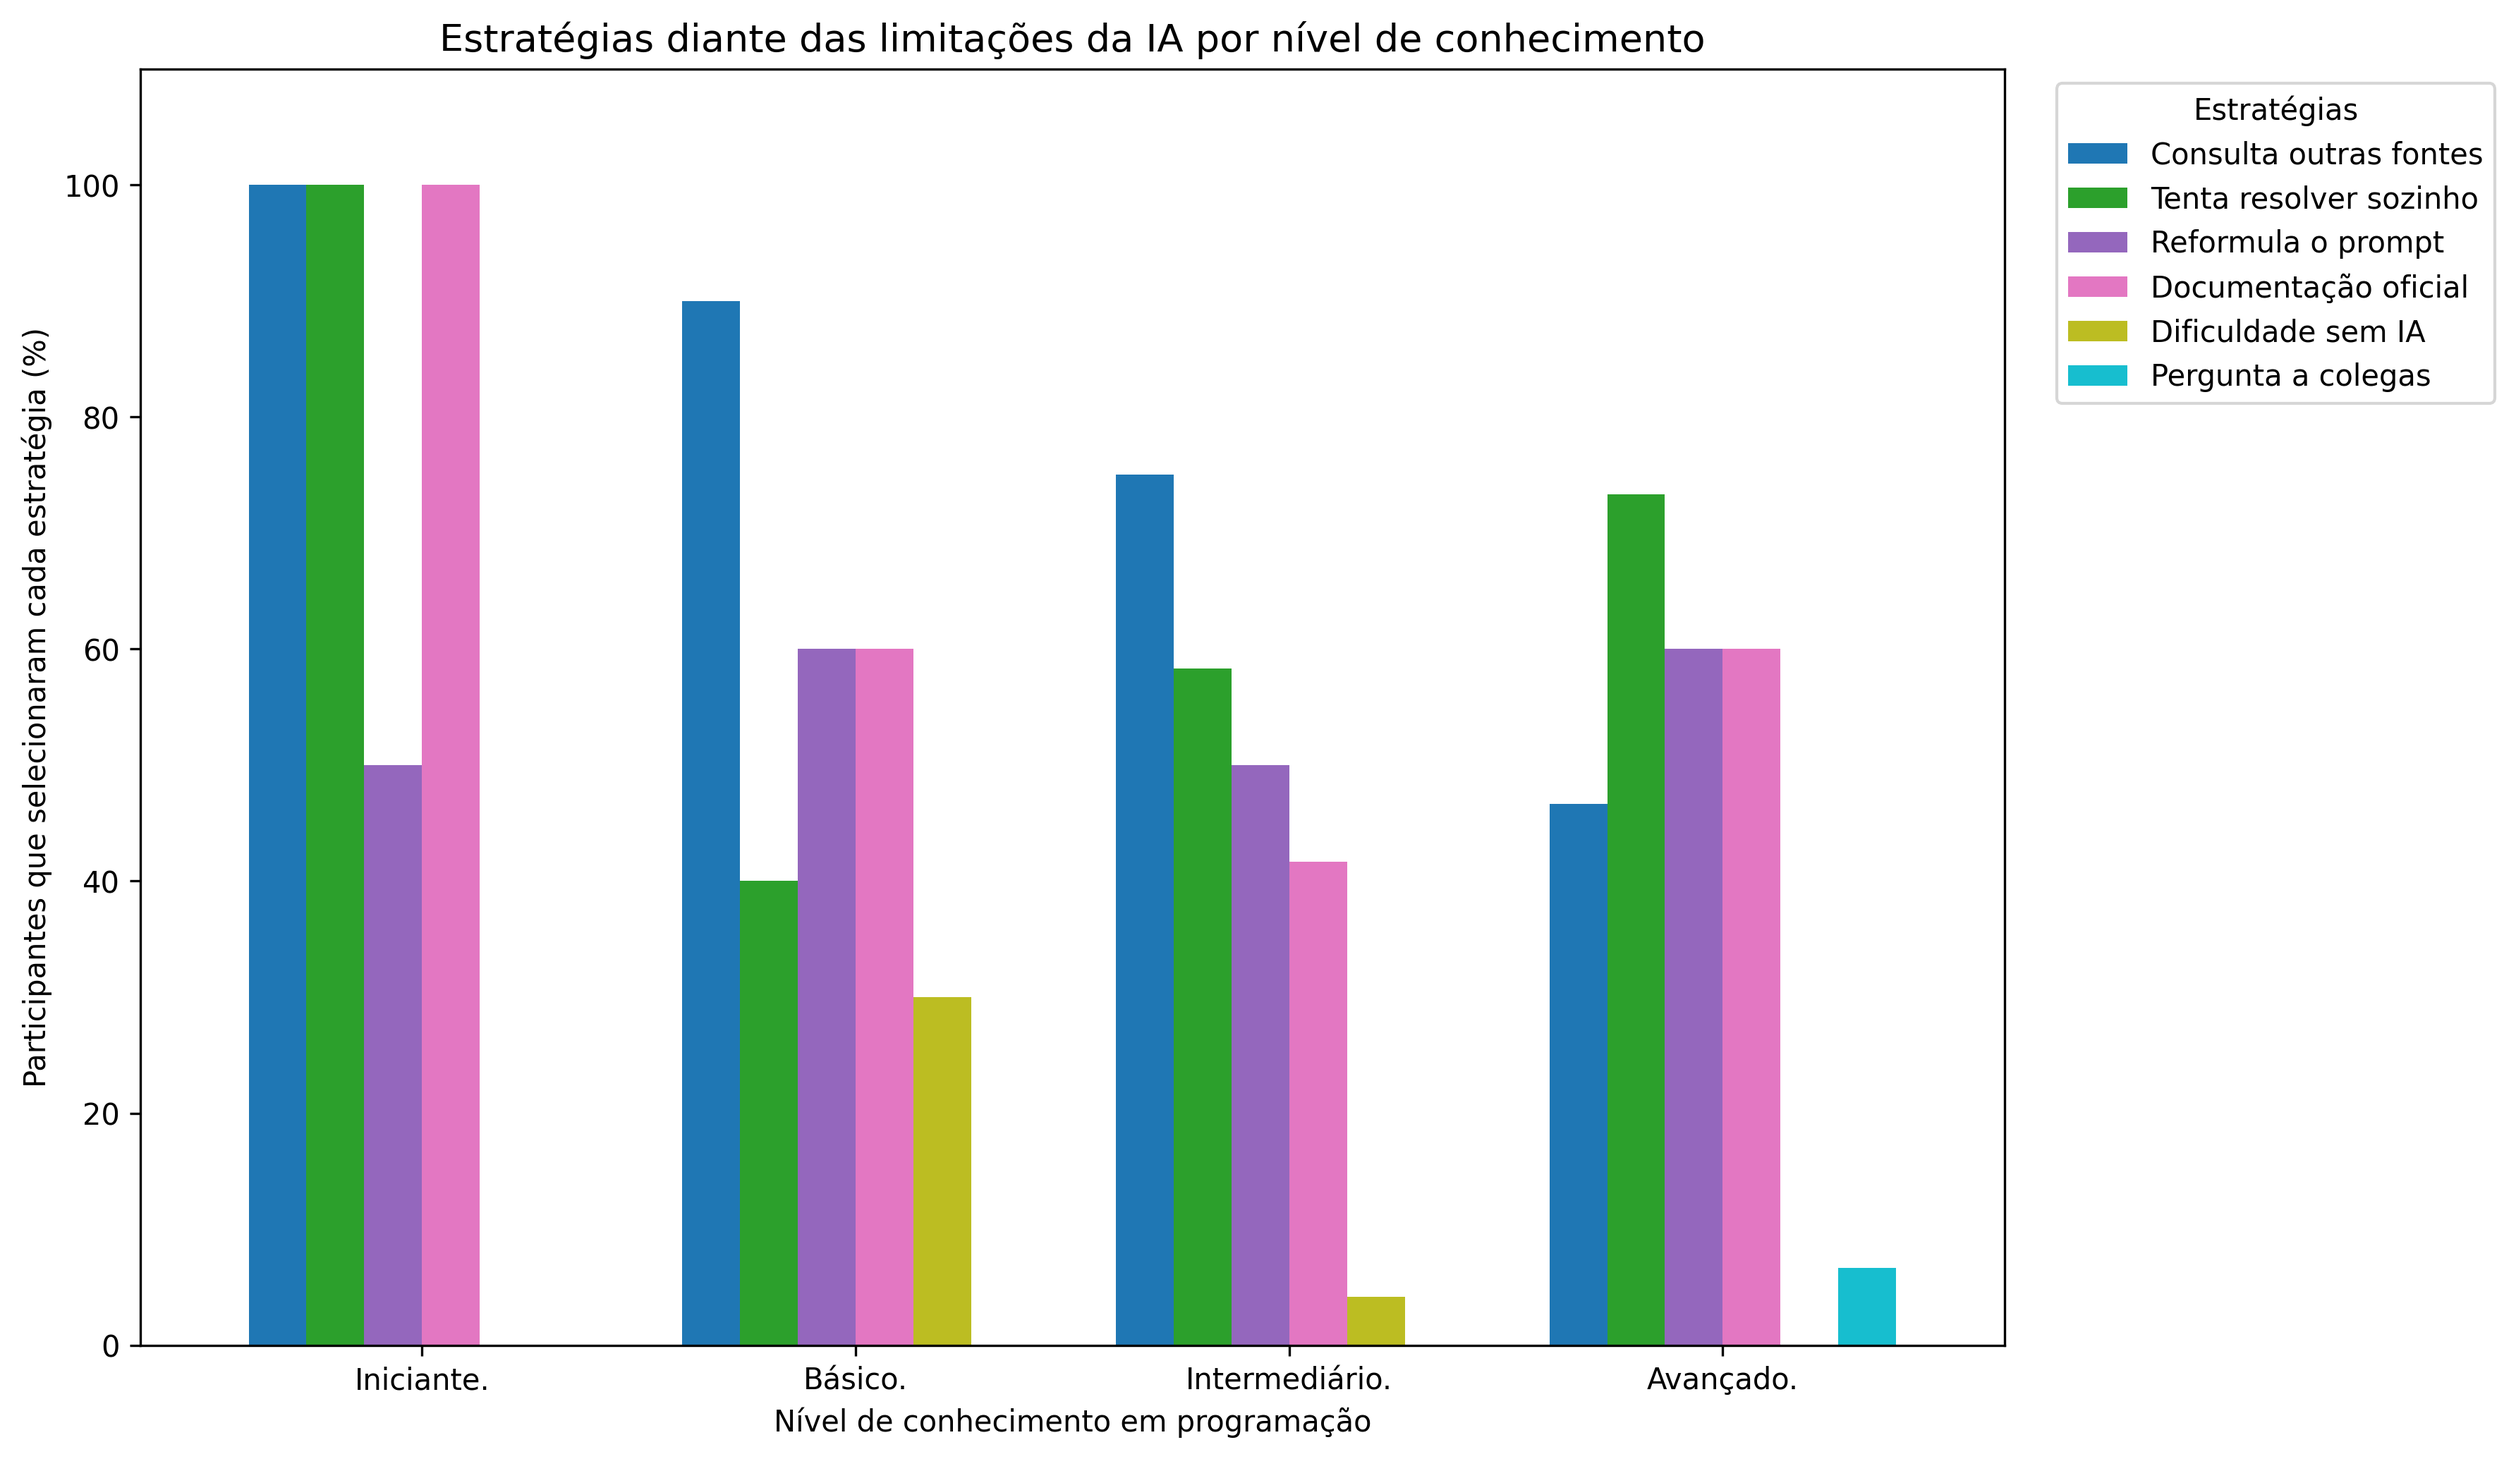
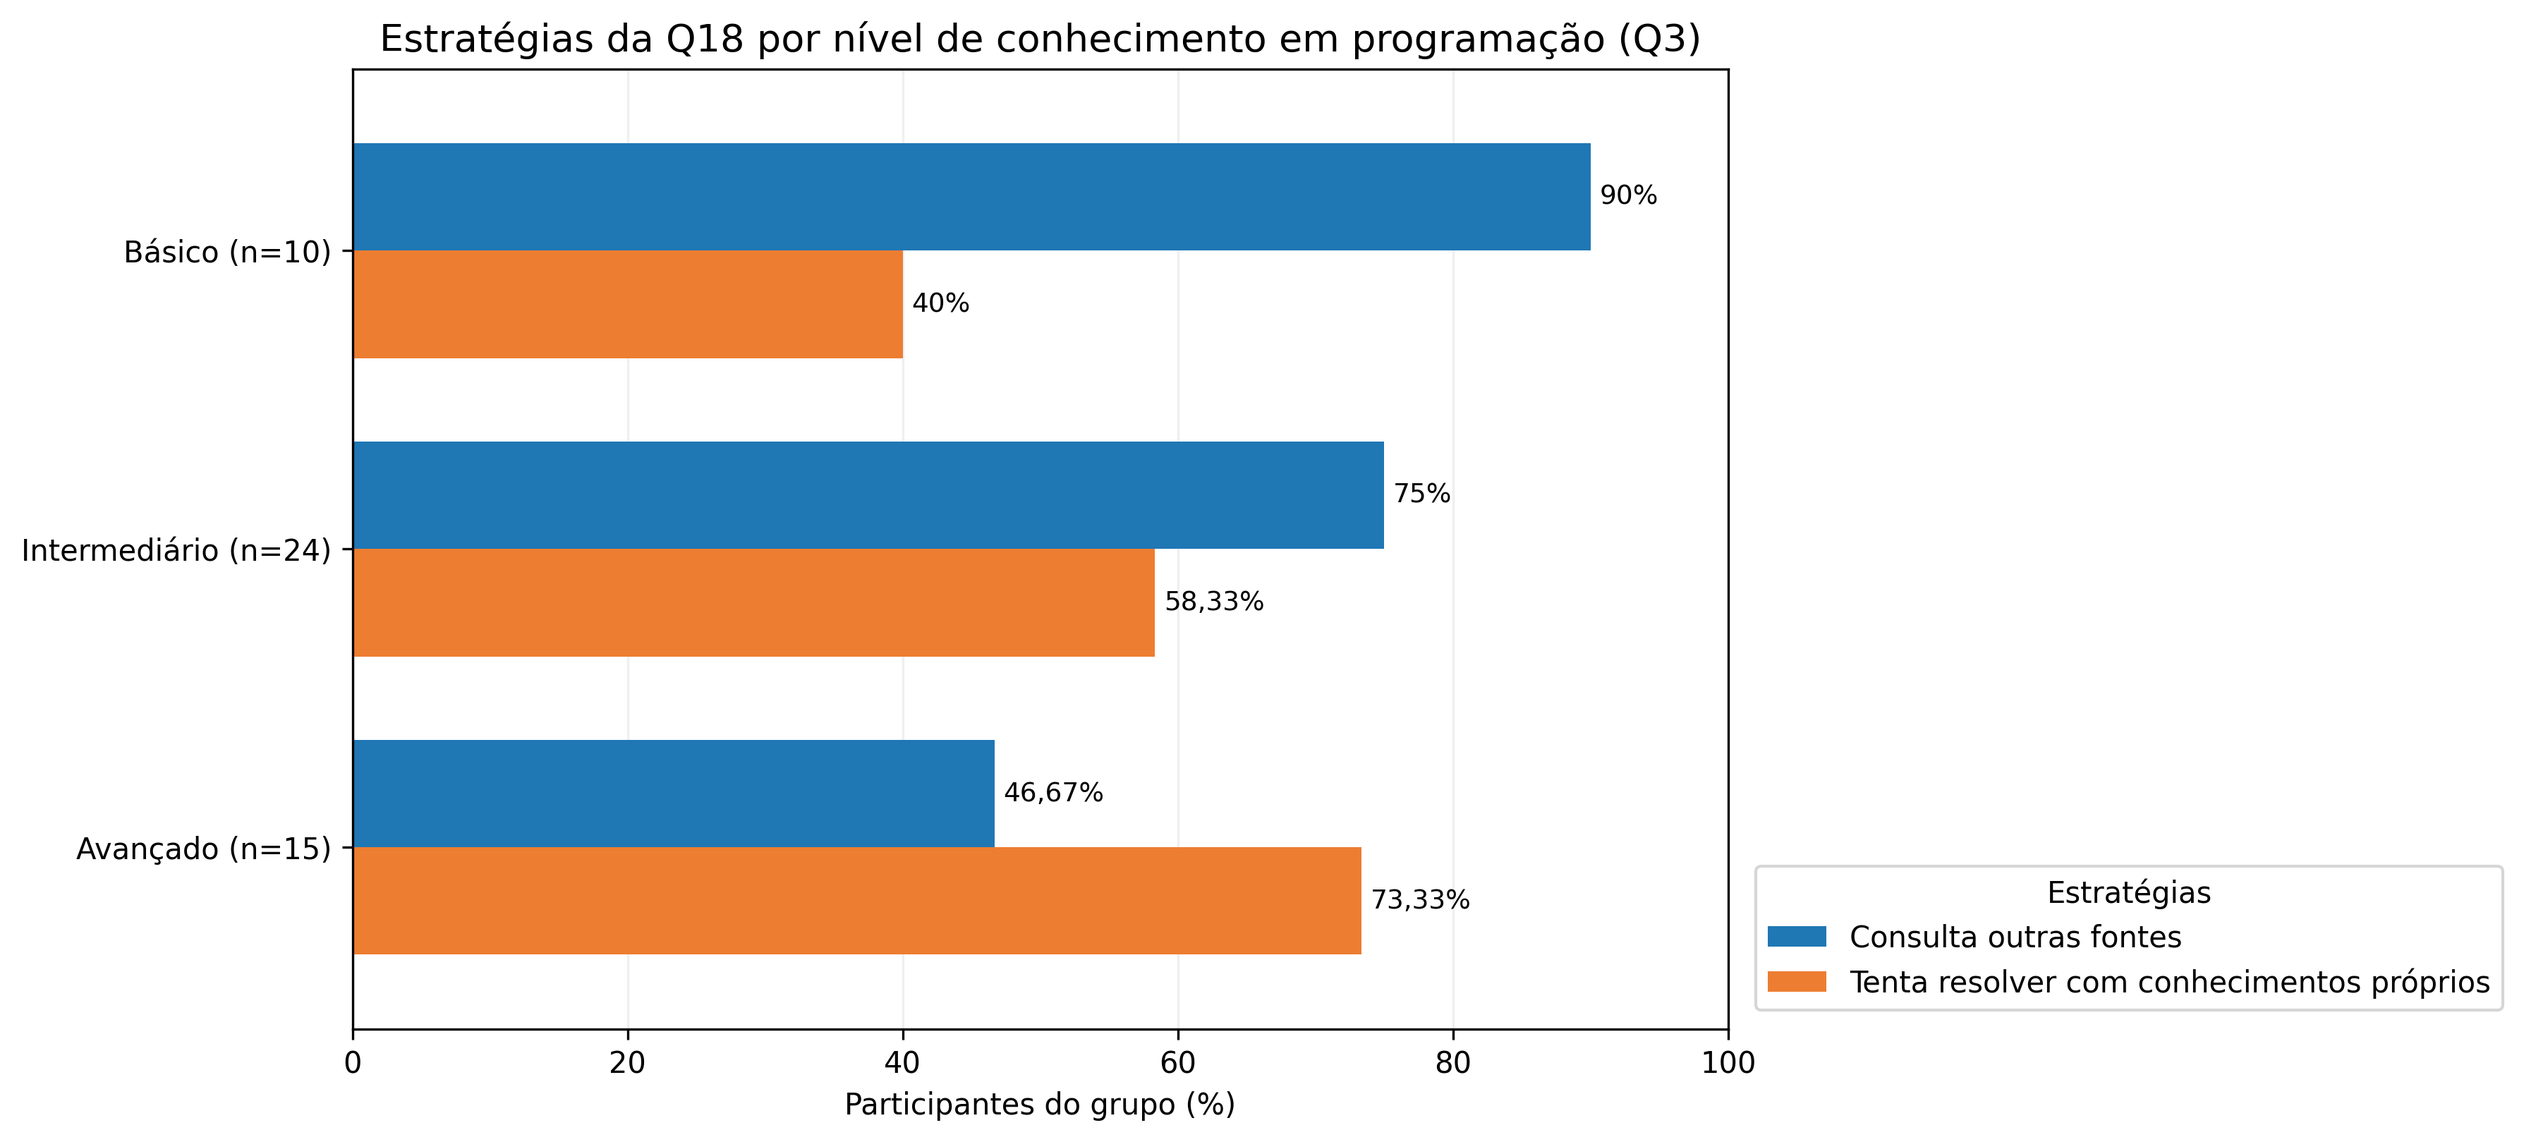
adiciona lógica para filtrar grupos com mínimo de participantes e atualiza gráficos correspondentes; ajusta arquivos de saída para refletir novas condições de privacidade

diff --git a/analise_graficos_5_3.py b/analise_graficos_5_3.py
@@ -15,6 +15,8 @@ CAMINHO_CSV = BASE_DIR / "dados" / "data.csv"
 PASTA_SAIDA = BASE_DIR / "resultados" / "analise_5_3"
 PASTA_SAIDA.mkdir(parents=True, exist_ok=True)
 
+MIN_GRUPO_PRIVACIDADE = 5
+
 plt.rcParams["figure.figsize"] = (11, 6)
 plt.rcParams["font.size"] = 10
 plt.rcParams["axes.titlesize"] = 13
@@ -295,10 +297,12 @@ opcoes_q18 = {
     ),
 }
 
-q18_normalizada = dados[col_q18].fillna("").apply(normalizar)
+dados_q18 = df[[col_q3, col_q18]].copy()
+dados_q18[col_q3] = dados_q18[col_q3].astype("string").str.strip()
+q18_normalizada = dados_q18[col_q18].fillna("").apply(normalizar)
 
 # Matriz binária: 1 = participante selecionou a alternativa.
-matriz_q18 = pd.DataFrame(index=dados.index)
+matriz_q18 = pd.DataFrame(index=dados_q18.index)
 
 for nome, alternativa in opcoes_q18.items():
     alternativa_norm = normalizar(alternativa)
@@ -313,7 +317,7 @@ for nome, alternativa in opcoes_q18.items():
 print("\n[3/4] Gerando distribuição geral da Q18...")
 
 frequencias_q18 = matriz_q18.sum().sort_values(ascending=True)
-percentuais_q18 = (frequencias_q18 / len(dados)) * 100
+percentuais_q18 = (frequencias_q18 / len(dados_q18)) * 100
 
 tabela_geral_q18 = pd.DataFrame({
     "Frequência": frequencias_q18,
@@ -366,41 +370,79 @@ print("\n[4/4] Gerando Q18 × Q3...")
 # cada estratégia. Como é múltipla seleção, a soma pode passar
 # de 100% dentro de um mesmo grupo.
 
-dados_q18_q3 = matriz_q18.join(dados[col_q3])
+dados_q18_q3 = matriz_q18.join(dados_q18[col_q3])
+dados_q18_q3 = dados_q18_q3.dropna(subset=[col_q3])
 
 tamanhos_grupos = dados_q18_q3.groupby(col_q3).size()
+grupos_publicaveis = tamanhos_grupos[
+    tamanhos_grupos >= MIN_GRUPO_PRIVACIDADE
+].index
 
 tabela_q18_q3 = (
     dados_q18_q3.groupby(col_q3)[list(opcoes_q18.keys())].mean()
     * 100
 )
 
-tabela_q18_q3 = tabela_q18_q3.reindex(ordem_q3)
+tabela_q18_q3 = tabela_q18_q3.reindex(
+    [grupo for grupo in ordem_q3 if grupo in grupos_publicaveis]
+)
 
 tabela_q18_q3.to_csv(
     PASTA_SAIDA / "q18_por_conhecimento_q3_percentuais.csv",
     encoding="utf-8-sig"
 )
 
-ax = tabela_q18_q3.plot(
-    kind="bar",
-    figsize=(12, 7),
-    colormap="tab10",
-    width=0.8
+if tabela_q18_q3.empty:
+    raise ValueError(
+        "Não há grupos com pelo menos "
+        f"{MIN_GRUPO_PRIVACIDADE} participantes para gerar o gráfico Q18 × Q3."
+    )
+
+estrategias_grafico_q18 = {
+    "Consulta outras fontes": "Consulta outras fontes",
+    "Tenta resolver sozinho": "Tenta resolver com conhecimentos próprios",
+}
+tabela_grafico_q18_q3 = tabela_q18_q3[
+    list(estrategias_grafico_q18)
+].copy()
+tabela_grafico_q18_q3.index = [
+    f"{grupo.removesuffix('.')} (n={int(tamanhos_grupos.loc[grupo])})"
+    for grupo in tabela_grafico_q18_q3.index
+]
+tabela_grafico_q18_q3 = tabela_grafico_q18_q3.rename(
+    columns=estrategias_grafico_q18
 )
 
-ax.set_title(
-    "Estratégias diante das limitações da IA por nível de conhecimento"
+fig, ax = plt.subplots(figsize=(12, 5.5))
+tabela_grafico_q18_q3.plot(
+    kind="barh",
+    ax=ax,
+    width=0.72,
+    color=["#1f77b4", "#ed7d31"]
 )
-ax.set_xlabel("Nível de conhecimento em programação")
-ax.set_ylabel("Participantes que selecionaram cada estratégia (%)")
-ax.set_ylim(0, 110)
+ax.invert_yaxis()
+ax.set_title(
+    "Estratégias da Q18 por nível de conhecimento em programação (Q3)"
+)
+ax.set_xlabel("Participantes do grupo (%)")
+ax.set_ylabel("")
+ax.set_xlim(0, 100)
+ax.set_xticks(range(0, 101, 20))
+ax.set_axisbelow(True)
+ax.xaxis.grid(alpha=0.2)
 ax.legend(
     title="Estratégias",
-    bbox_to_anchor=(1.02, 1),
-    loc="upper left"
+    loc="lower left",
+    bbox_to_anchor=(1.02, 0.02),
+    borderaxespad=0
 )
-ax.tick_params(axis="x", rotation=0)
+for barras in ax.containers:
+    rotulos = [
+        f"{valor:.2f}".rstrip("0").rstrip(".").replace(".", ",") + "%"
+        for valor in barras.datavalues
+    ]
+    ax.bar_label(barras, labels=rotulos, padding=3, fontsize=9)
+fig.subplots_adjust(left=0.24, right=0.66, top=0.84, bottom=0.15)
 
 salvar_grafico("q18_por_conhecimento_q3.png")
 
@@ -426,3 +468,7 @@ print(tabela_q18_q3.round(2).to_string())
 print("\nObservação: Q18 é de múltipla seleção.")
 print("Os percentuais são calculados sobre participantes de cada grupo.")
 print("Por isso, a soma das categorias pode ultrapassar 100%.")
+print(
+    "Grupos com menos de "
+    f"{MIN_GRUPO_PRIVACIDADE} foram omitidos por privacidade."
+)

diff --git a/analise_cruzamento_5_3.py b/analise_cruzamento_5_3.py
@@ -11,6 +11,7 @@ import unicodedata
 
 ARQUIVO = "dados/data.csv"
 PASTA_SAIDA = "resultados/analise_5_3"
+MIN_GRUPO_PRIVACIDADE = 5
 
 os.makedirs(PASTA_SAIDA, exist_ok=True)
 
@@ -172,6 +173,17 @@ def analisar_cruzamento(coluna_perfil, nome_perfil, arquivo_prefixo):
     print("=" * 70)
 
     base = df.dropna(subset=[coluna_perfil]).copy()
+    tamanhos_grupos = base[coluna_perfil].value_counts()
+    grupos_publicaveis = tamanhos_grupos[
+        tamanhos_grupos >= MIN_GRUPO_PRIVACIDADE
+    ].index
+    base = base[base[coluna_perfil].isin(grupos_publicaveis)]
+
+    if base.empty:
+        raise ValueError(
+            f"Não há grupos com pelo menos {MIN_GRUPO_PRIVACIDADE} "
+            f"participantes para analisar {nome_perfil}."
+        )
 
     resultados = []
 
@@ -227,32 +239,82 @@ def analisar_cruzamento(coluna_perfil, nome_perfil, arquivo_prefixo):
         values="Percentual"
     )
 
-    ax = tabela.plot(
-        kind="bar",
-        figsize=(13, 7),
-        width=0.8
-    )
+    if coluna_perfil == col_q3:
+        estrategias_grafico = [
+            "Consulta outras fontes de estudo",
+            "Tenta resolver sozinho utilizando conhecimentos",
+        ]
+        tabela_grafico = tabela[estrategias_grafico].copy()
+        grupos_ordem = [
+            grupo for grupo in [
+                "Básico.",
+                "Intermediário.",
+                "Avançado.",
+            ]
+            if grupo in tabela_grafico.index
+        ]
+        tabela_grafico = tabela_grafico.reindex(grupos_ordem)
+        tabela_grafico.index = [
+            f"{grupo.removesuffix('.')} "
+            f"(n={int(tamanhos_grupos.loc[grupo])})"
+            for grupo in tabela_grafico.index
+        ]
+        tabela_grafico = tabela_grafico.rename(columns={
+            estrategias_grafico[0]: "Consulta outras fontes",
+            estrategias_grafico[1]: "Tenta resolver com conhecimentos próprios",
+        })
 
-    ax.set_title(
-        f"Estratégias quando a IA não resolve — {nome_perfil}"
-    )
-
-    ax.set_xlabel(nome_perfil)
-
-    ax.set_ylabel(
-        "Participantes que selecionaram a estratégia (%)"
-    )
-
-    ax.set_ylim(0, 100)
-
-    ax.legend(
-        title="Estratégias",
-        bbox_to_anchor=(1.02, 1),
-        loc="upper left"
-    )
-
-    plt.xticks(rotation=25, ha="right")
-    plt.tight_layout()
+        fig, ax = plt.subplots(figsize=(12, 5.5))
+        tabela_grafico.plot(
+            kind="barh",
+            ax=ax,
+            width=0.72,
+            color=["#1f77b4", "#ed7d31"]
+        )
+        ax.invert_yaxis()
+        ax.set_title(
+            "Estratégias da Q18 por nível de conhecimento em programação (Q3)"
+        )
+        ax.set_xlabel("Participantes do grupo (%)")
+        ax.set_ylabel("")
+        ax.set_xlim(0, 100)
+        ax.set_xticks(range(0, 101, 20))
+        ax.set_axisbelow(True)
+        ax.xaxis.grid(alpha=0.2)
+        ax.legend(
+            title="Estratégias",
+            loc="lower left",
+            bbox_to_anchor=(1.02, 0.02),
+            borderaxespad=0
+        )
+        for barras in ax.containers:
+            rotulos = [
+                f"{valor:.2f}".rstrip("0").rstrip(".").replace(".", ",") + "%"
+                for valor in barras.datavalues
+            ]
+            ax.bar_label(barras, labels=rotulos, padding=3, fontsize=9)
+        fig.subplots_adjust(left=0.24, right=0.66, top=0.84, bottom=0.15)
+    else:
+        ax = tabela.plot(
+            kind="bar",
+            figsize=(13, 7),
+            width=0.8
+        )
+        ax.set_title(
+            f"Estratégias quando a IA não resolve — {nome_perfil}"
+        )
+        ax.set_xlabel(nome_perfil)
+        ax.set_ylabel(
+            "Participantes que selecionaram a estratégia (%)"
+        )
+        ax.set_ylim(0, 100)
+        ax.legend(
+            title="Estratégias",
+            bbox_to_anchor=(1.02, 1),
+            loc="upper left"
+        )
+        plt.xticks(rotation=25, ha="right")
+        plt.tight_layout()
 
     caminho_grafico = os.path.join(
         PASTA_SAIDA,
